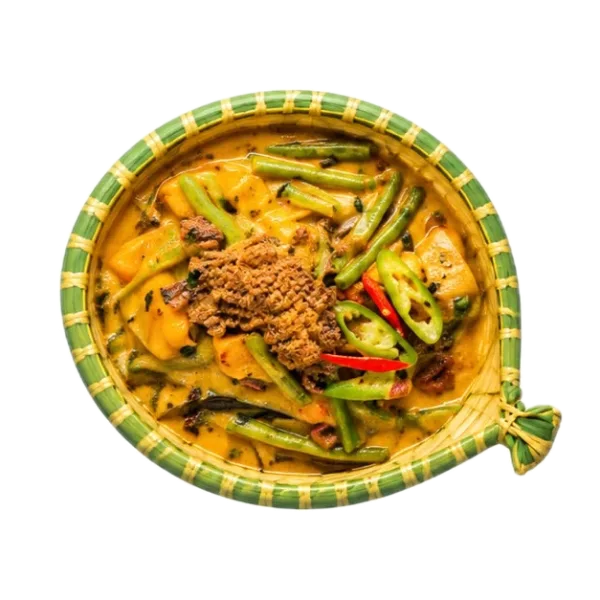
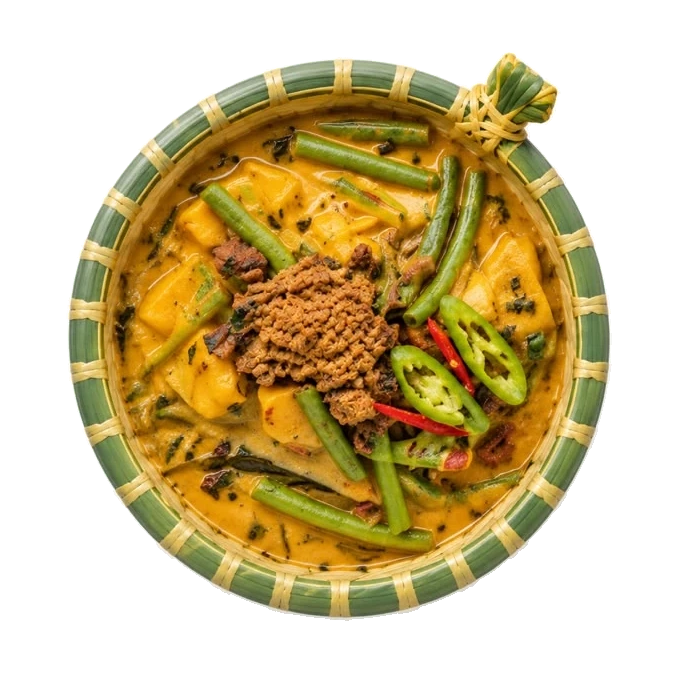
Website v3: silog photos, new laing and ginataang, Chicksilog and Tocilog
- New cutouts from the owner's photos at full resolution: Tocilog,
  Bacon Silog, Chicksilog; Laing and Ginataang Sitaw at Kalabasa
  replaced under the same names. PHOTO_V 20261017f.
- sql/42-silog-menu.sql (data only): Chicken Silog -> Chicksilog, and
  Tocilog back on the menu at 115. sql/39 now uses the new name so a
  re-run keeps it. Applied to production; t_42 added, 126 passed.
- v3 assets ?v=20261017v30. No new text to translate.

diff --git a/index.html b/index.html
@@ -17,14 +17,14 @@
 <link href="https://fonts.googleapis.com/css2?family=Playfair+Display:ital,wght@0,700;0,900;1,700&family=Lora:ital,wght@0,400;0,600;1,400&family=DM+Sans:wght@300;400;500;700&family=Fraunces:ital,opsz,wght,SOFT,WONK@0,9..144,500..900,0..100,0..1;1,9..144,500..900,0..100,0..1&family=Plus+Jakarta+Sans:wght@400;500;600;700&display=swap" rel="stylesheet">
 <link rel="stylesheet" href="tpn-app.css?v=20261017o">
 <link rel="stylesheet" href="tpn-glass.css?v=20261017o">
-<link rel="stylesheet" href="tpn-site-v3.css?v=20261017v29">
+<link rel="stylesheet" href="tpn-site-v3.css?v=20261017v30">
 <link rel="preload" href="vendor/supabase-js-2.117.2.js" as="script">
 <link rel="preload" href="config.js?v=20261017o" as="script">
 <link rel="preload" href="tpn-supabase.js?v=20261017o" as="script">
 <link rel="preload" href="tpn-kit.js?v=20261017o" as="script">
 <link rel="preload" href="tpn-site.js?v=20261017o" as="script">
 <link rel="preload" href="tpn-i18n.js?v=20261017o" as="script">
-<link rel="preload" href="tpn-home.js?v=20261017v29" as="script">
+<link rel="preload" href="tpn-home.js?v=20261017v30" as="script">
 <link rel="preload" href="assets/site/hero.webp" as="image" fetchpriority="high">
 <script src="vendor/supabase-js-2.117.2.js"></script>
 <script>
@@ -37,7 +37,7 @@
 <script src="tpn-kit.js?v=20261017o"></script>
 <script src="tpn-site.js?v=20261017o"></script>
 <script src="tpn-i18n.js?v=20261017o"></script>
-<script src="tpn-home.js?v=20261017v29"></script>
+<script src="tpn-home.js?v=20261017v30"></script>
 <meta name="viewport" content="width=device-width, initial-scale=1.0, viewport-fit=cover">
 <meta name="description" content="Tyo Paeng Nyo — Authentic Filipino cuisine in Las Piñas since 2003. Order online, book events, or inquire about catering.">
 <meta name="theme-color" content="#8B1A0E">

diff --git a/tpn-home.js b/tpn-home.js
@@ -115,18 +115,21 @@
     'sisig silog': 'sisig-silog',
     'liemposilog': 'liempo-silog',
     'tapsilog': 'tapsilog',
+    'tocilog': 'tocilog',
+    'bacon silog': 'bacon-silog',
+    'chicksilog': 'chicksilog',
     'calamares': 'calamares',
     'beef bistek': 'bistek',
     'pancit bihon': 'pancit-bihon',
     'ginataang hipon': 'ginataang-hipon',
   };
   // bump when a photo is replaced under the same name, or browsers keep the old one
-  const PHOTO_V = '20261017e';
+  const PHOTO_V = '20261017f';
   const photo = it => { const k = PHOTOS[(it.name || '').trim().toLowerCase()]; return k ? `assets/site/dishes/${k}.webp?v=${PHOTO_V}` : ''; };
   // sharpest source photos first, so the big bento card never gets a small one
   const PHOTO_RANK = ['buttered shrimp', 'adobong pusit with gata', 'kare-kareng lechon kawali', 'beef caldereta', 'pork sisig',
     'laing', 'ginataang sitaw at kalabasa', 'calamares', 'teriyaki wings', 'ginataang hipon', 'beef bistek', 'pancit bihon',
-    'tapsilog', 'sisig silog', 'liemposilog', 'cornedbeef silog', 'pares'];
+    'chicksilog', 'tocilog', 'bacon silog', 'tapsilog', 'sisig silog', 'liemposilog', 'cornedbeef silog', 'pares'];
   const rank = it => { const i = PHOTO_RANK.indexOf((it.name || '').trim().toLowerCase()); return i < 0 ? 99 : i; };
 
   /* ---------- line icons per category, emoji from the menu as fallback ---------- */

diff --git a/HANDOFF.md b/HANDOFF.md
@@ -70,6 +70,13 @@ tpn-os/
 - **Printed receipt:** step 5 of checkout prints a receipt out of a small printer (`.rcpt-*` in `tpn-site-v3.css`). Lines come from the tray; subtotal, delivery fee and total come from `submit_order`'s return (`checkoutData.receipt`, set in `confirmOrder`). Feed time scales with the line count (`--print`). The rest of the screen fades in afterwards, and the page scrolls the printer into view first. Off under reduced motion.
 - Asset versions: shared `?v=20261017j` (tpn-i18n.js gained 4 phrases), v3 files `?v=20261017v16`.
 
+## Rev 20 — silog photos, new laing and ginataang photos (Oct 17, 2026, branch `feature/silog-photos`)
+
+- **New dish photos:** Tocilog, Bacon Silog and Chicksilog are new (`tocilog`, `bacon-silog`, `chicksilog` in `PHOTOS`). Laing and Ginataang Sitaw at Kalabasa have new photos under the same file names. `PHOTO_V` is `20261017f`. The three silogs rank just above Tapsilog in `PHOTO_RANK`.
+- **How they were made:** the owner's photos were on pure white, two dishes per sheet. A flood fill from the border clears near-white and the pale drop shadow (min channel ≥ 165, spread ≤ 22), and the largest shapes are kept. A 2px edge is un-mixed from white so there is no halo. Each file is centred on its largest inscribed circle for the spin, at the source's full resolution (≈590–720px; Chicksilog 1076px), WebP q92 with lossless alpha.
+- **`sql/42-silog-menu.sql`** (data only) renames Chicken Silog to Chicksilog and puts Tocilog back (₱115, sql/39's order and description). It had gone missing on production. `sql/39` now says Chicksilog too, so re-running it can't undo the rename. Applied to production Oct 17. Test: `t_42_silog_menu.sql`; 126 passed.
+- Asset versions: v3 `?v=20261017v30` (tpn-home.js).
+
 ## Rev 19 — portal Parking and Landmark reach the website (Oct 17, 2026, branch `feature/site-parking-landmark`, stacked on Rev 18)
 
 No migration. The portal's Website → Contact & hours tab already saved `contact.parking` and `contact.landmark` (sql/30), but the site printed its own fixed text.

diff --git a/GO-LIVE.md b/GO-LIVE.md
@@ -44,6 +44,7 @@ Run each file **on its own**, in this order. All are safe to re-run.
 | `sql/39-menu-oct-2026.sql` | the real menu from the October boards |
 | `sql/40-menu-descriptions.sql` | short descriptions for the 42 dishes that had none (fills blanks only) |
 | `sql/41-order-idempotency.sql` | a retried order (dropped connection, refresh, second tap) returns the first order instead of placing a second one. Run it before or with the site release; the old site keeps working on it |
+| `sql/42-silog-menu.sql` | Chicken Silog is renamed Chicksilog; Tocilog (₱115) is back on the menu. Data only. Applied to production Oct 17 as `42_silog_menu` |
 
 Then: Supabase → Advisors → Security. Expected warnings only: the customer functions (`submit_order`, `track_order`, `claim_stamp_card`, `my_stamp_card`, `stamp_card_code`, `my_guest_profile`, `addon_suggestions`, `signal_*`) are public on purpose.
 
